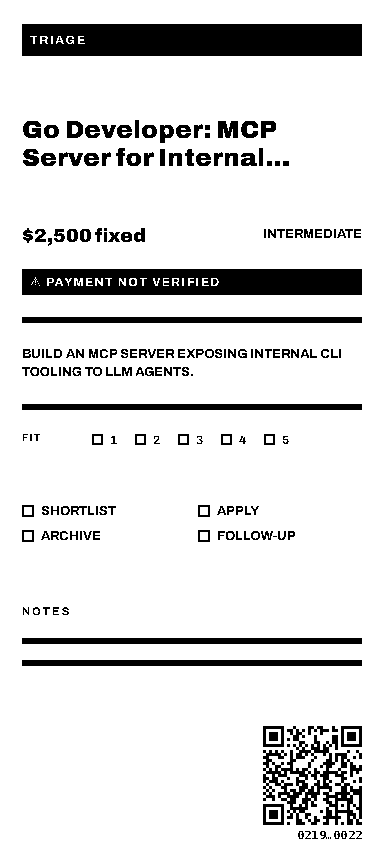
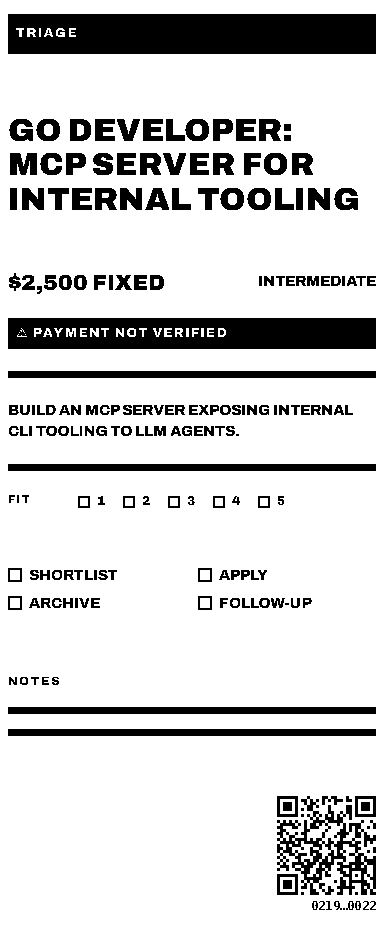
feat(slip): bolder defaults — bigger type scale, tight 10x8 work-theme padding
Feedback: slips should read from arm's length and feel brutalist. h1 30
(brutalist 32 upper), h2 22, display 46-50, micro 11; work themes carry
size+weight presetOverrides (nothing under 600, brutalist nothing under 800)
and a default padding of 10px 8px via new theme.padding (layout margin still
wins). Heavier rule tokens (brutalist hair 7 / heavy 14), stronger banner
padding/weight. Examples drop explicit margins; screenshots refreshed;
reprinted job slip + triage card.

Changed region(s): [[0.0, 0.1244, 1.0, 0.6532], [0.0312, 0.6843, 1.0, 0.9954], [0.0, 0.0, 1.0, 0.0622]]

diff --git a/web/src/almanach-studio.jsx b/web/src/almanach-studio.jsx
@@ -176,19 +176,25 @@ const THEMES = {
     fontDisplay: "'Archivo', 'DejaVu Sans', sans-serif",
     fontBody: "'Archivo', 'DejaVu Sans', sans-serif",
     fontMono: "'DejaVu Sans Mono', monospace",
-    titleSize: 26,
+    titleSize: 30,
     titleWeight: 900,
     titleSpacing: "0.03em",
     titleCase: "uppercase",
     ornateFrame: false,
     grain: 0,
+    // Work slips are glanced at from arm's length: tight page padding, big
+    // heavy running text.
+    padding: "10px 8px",
     presetOverrides: {
-      body: { weight: 500 },
-      caption: { weight: 600 },
+      body: { size: 15, weight: 600 },
+      bodyStrong: { size: 15, weight: 800 },
+      caption: { size: 13, weight: 600 },
+      overline: { size: 12, weight: 700 },
+      small: { size: 12 },
     },
     tokens: {
       space: { xs: 5, s: 10, m: 16, l: 26, xl: 42 },
-      rules: { hair: 1, thick: 3, heavy: 7 },
+      rules: { hair: 2, thick: 5, heavy: 9 },
       ruleStyle: "solid",
       bannerStyle: "invert",
     },
@@ -204,25 +210,29 @@ const THEMES = {
     fontDisplay: "'Archivo', 'DejaVu Sans', sans-serif",
     fontBody: "'Archivo', 'DejaVu Sans', sans-serif",
     fontMono: "'DejaVu Sans Mono', monospace",
-    titleSize: 30,
+    titleSize: 34,
     titleWeight: 900,
     titleSpacing: "0",
     titleCase: "uppercase",
     ornateFrame: false,
     grain: 0,
+    padding: "10px 8px",
     // Everything heavy and uppercase — slip-studio's forceCase, expressed as
-    // preset data instead of a special mechanism.
+    // preset data instead of a special mechanism. Nothing below weight 800.
     presetOverrides: {
-      body: { weight: 700, textCase: "upper" },
-      bodyStrong: { weight: 900, textCase: "upper" },
-      caption: { weight: 700, textCase: "upper" },
-      small: { weight: 700, textCase: "upper" },
-      h2: { weight: 900 },
-      overline: { weight: 700 },
+      body: { size: 15, weight: 800, textCase: "upper" },
+      bodyStrong: { size: 15, weight: 900, textCase: "upper" },
+      caption: { size: 13, weight: 800, textCase: "upper" },
+      small: { size: 12, weight: 800, textCase: "upper" },
+      h1: { size: 32, textCase: "upper" },
+      h2: { weight: 900, textCase: "upper" },
+      display: { size: 50, textCase: "upper" },
+      overline: { size: 12, weight: 800 },
+      micro: { weight: 800 },
     },
     tokens: {
       space: { xs: 5, s: 10, m: 16, l: 26, xl: 42 },
-      rules: { hair: 6, thick: 8, heavy: 10 },
+      rules: { hair: 7, thick: 10, heavy: 14 },
       ruleStyle: "solid",
       bannerStyle: "invert",
     },
@@ -238,20 +248,23 @@ const THEMES = {
     fontDisplay: "'DejaVu Sans Mono', monospace",
     fontBody: "'DejaVu Sans Mono', monospace",
     fontMono: "'DejaVu Sans Mono', monospace",
-    titleSize: 22,
+    titleSize: 24,
     titleWeight: 700,
     titleSpacing: "0.05em",
     titleCase: "uppercase",
     ornateFrame: false,
     grain: 0,
+    padding: "10px 8px",
     presetOverrides: {
-      display: { size: 32, weight: 700 },
-      h1: { size: 21, weight: 700 },
-      h2: { size: 17, weight: 700 },
+      display: { size: 36, weight: 700 },
+      h1: { size: 23, weight: 700 },
+      h2: { size: 18, weight: 700 },
+      body: { size: 14, weight: 600 },
+      caption: { size: 12.5 },
     },
     tokens: {
       space: { xs: 4, s: 8, m: 13, l: 21, xl: 32 },
-      rules: { hair: 1, thick: 2, heavy: 2 },
+      rules: { hair: 1, thick: 2, heavy: 3 },
       ruleStyle: "dashed",
       bannerStyle: "outline",
     },
@@ -1487,7 +1500,7 @@ const ThermalPaper = React.forwardRef(({ blocks, theme, selectedId, onSelect, on
           background: theme.paper,
           color: theme.ink,
           fontFamily: theme.fontBody,
-          padding: marginToPadding(margin) ?? (theme.ornateFrame ? "20px 22px" : (theme.lined ? "16px 24px" : "20px 22px")),
+          padding: marginToPadding(margin) ?? theme.padding ?? (theme.ornateFrame ? "20px 22px" : (theme.lined ? "16px 24px" : "20px 22px")),
           position: "relative",
           backgroundImage: theme.lined
             ? `repeating-linear-gradient(to bottom, transparent 0, transparent 21px, ${theme.rule} 21px, ${theme.rule} 22px)`

diff --git a/web/src/typography/presets.js b/web/src/typography/presets.js
@@ -66,17 +66,18 @@ export const DEFAULT_PRESETS = {
   // Tabular metadata (plan times).
   meta: { role: "body", size: 12, weight: 600, lineHeight: 1.2, minSize: 11 },
 
-  // Work-slip scale (ALMANACH-WORKSLIP Phase 3), ported from slip-studio's
-  // 576-dot designs at ~x0.67 for 384-dot paper. Sizes are print-ready
-  // absolutes — slip layouts should set bodyScale: 1.
+  // Work-slip scale (ALMANACH-WORKSLIP Phase 3). Sizes are print-ready
+  // absolutes tuned on 384-dot paper — slip layouts should set bodyScale: 1.
+  // The scale is deliberately LARGE: a slip is glanced at from arm's length,
+  // and paper-verified legibility favors big and heavy.
   // Huge stat numerals ("5 PROPOSALS" trios, digest weekday).
-  display: { role: "display", size: 40, weight: 900, lineHeight: 1.02 },
-  // Slip headline (job title).
-  h1: { role: "display", size: 25, weight: 900, lineHeight: 1.1 },
+  display: { role: "display", size: 46, weight: 900, lineHeight: 1.02 },
+  // Slip headline (job title) — ~3 words per line at 384 dots.
+  h1: { role: "display", size: 30, weight: 900, lineHeight: 1.08 },
   // Secondary headline (rates, section heads).
-  h2: { role: "display", size: 19, weight: 700, lineHeight: 1.15 },
+  h2: { role: "display", size: 22, weight: 700, lineHeight: 1.12 },
   // Tracked uppercase labels (stat captions, table heads) — floored + bold.
-  micro: { role: "body", size: 10, weight: 700, letterSpacing: 0.14, textCase: "upper", lineHeight: 1.2, minSize: 9 },
+  micro: { role: "body", size: 11, weight: 700, letterSpacing: 0.14, textCase: "upper", lineHeight: 1.2, minSize: 10 },
 };
 
 /**

diff --git a/web/src/blocks/slip/components.jsx b/web/src/blocks/slip/components.jsx
@@ -48,10 +48,10 @@ export const SlipTextBlock = ({ data, theme, blockStyle }) => (
 // Full-width emphasis bar. data: { text, right?, preset?, pad? }. The theme's
 // bannerStyle token picks filled ("invert") or bordered ("outline").
 export const BannerBlock = ({ data, theme, blockStyle }) => {
-  const padMap = { s: 5, m: 8, l: 13 };
+  const padMap = { s: 7, m: 11, l: 18 };
   const pad = padMap[data.pad] ?? padMap.s;
   const invert = bannerStyleToken(theme) !== "outline";
-  const st = theme.preset(data.preset || "caption", { weight: 700, letterSpacing: 0.12, textCase: "upper" }, blockStyle);
+  const st = theme.preset(data.preset || "caption", { weight: 800, letterSpacing: 0.12, textCase: "upper" }, blockStyle);
   return (
     <div
       style={{

diff --git a/internal/app/doc/layout-dsl-reference.md b/internal/app/doc/layout-dsl-reference.md
@@ -192,7 +192,9 @@ the base theme's tokens wholesale.
 ## Page Margin
 
 `margin` controls the padding of the printed page body. Omit it to keep the
-theme default (~20×22px). Three forms are accepted:
+theme default (~20×22px for the almanac themes; the work themes
+`swiss`/`brutalist`/`terminal` default to a tight 10×8px so slips run nearly
+edge to edge). Three forms are accepted:
 
 ```yaml
 margin: 8                                     # uniform px on all sides
